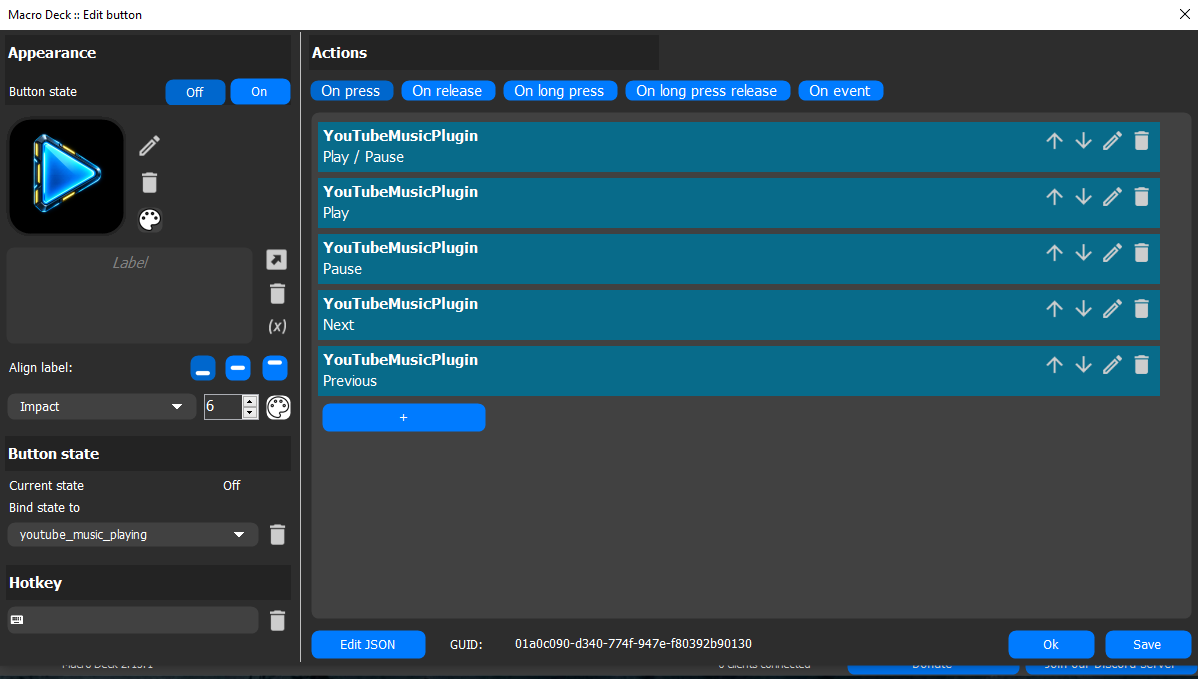
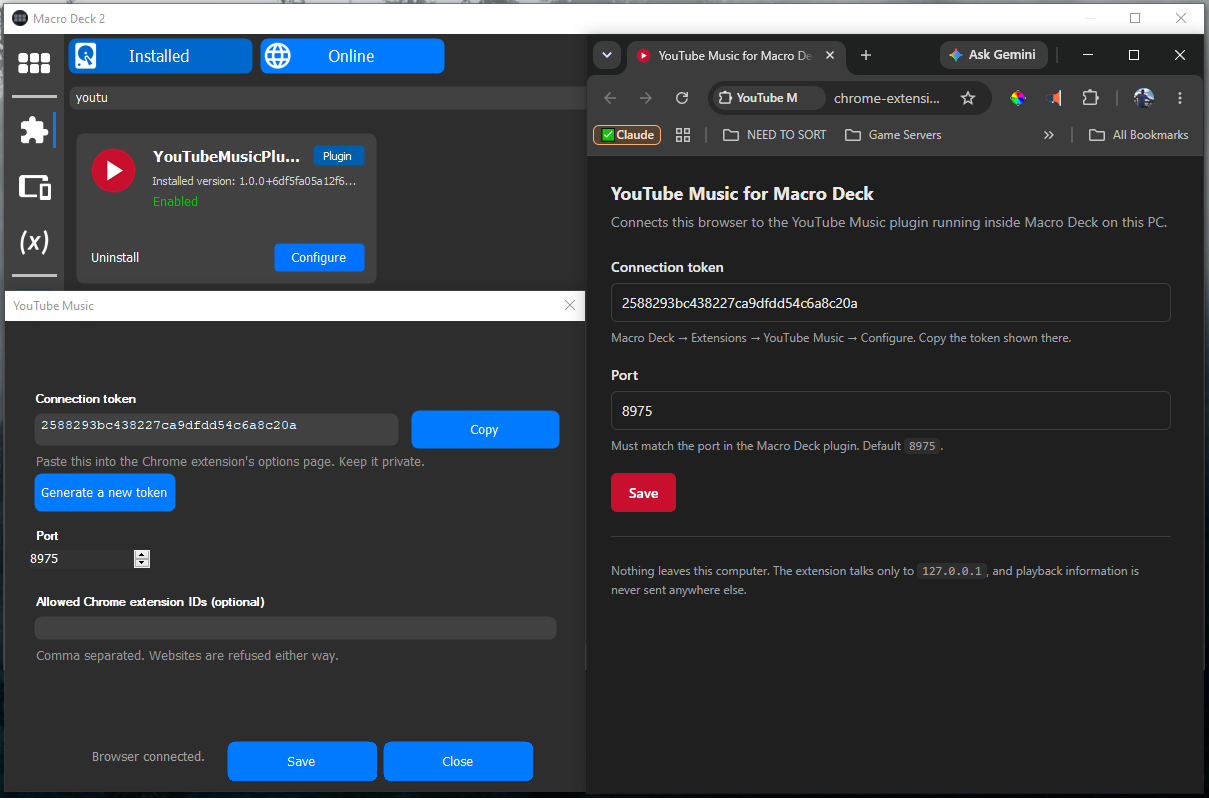
style: replace the port spinner and show placeholder text
WinForms paints a NumericUpDown's spinner buttons in the system colour
regardless of BackColor, leaving a white block in the dark dialog. The
port is now a RoundedTextBox validated on save, which reports a clear
message instead of silently clamping.

Placeholder text needed an explicit PlaceHolderColor to be visible
against the themed background.

diff --git a/plugin/src/YouTubeMusicPlugin/GUI/ConfiguratorDialog.cs b/plugin/src/YouTubeMusicPlugin/GUI/ConfiguratorDialog.cs
@@ -17,7 +17,7 @@ internal sealed class ConfiguratorDialog : DialogForm
     private readonly YouTubeMusicPlugin _plugin;
 
     private readonly RoundedTextBox _tokenBox = new();
-    private readonly NumericUpDown _portBox = new();
+    private readonly RoundedTextBox _portBox = new();
     private readonly RoundedTextBox _extensionIdBox = new();
     private readonly Label _statusLabel = new();
 
@@ -74,12 +74,14 @@ internal sealed class ConfiguratorDialog : DialogForm
 
         AddFullWidth(layout, Heading("Port"), 4);
 
-        _portBox.Minimum = 1024;
-        _portBox.Maximum = 65535;
+        // A NumericUpDown would be the obvious control, but WinForms paints its
+        // spinner buttons in the system colour whatever BackColor says, leaving
+        // a white block in a dark dialog. The value is validated in Save().
         _portBox.Width = 120;
-        _portBox.BorderStyle = BorderStyle.None;
-        _portBox.BackColor = Colors.Surface2;
-        _portBox.ForeColor = Color.White;
+        _portBox.Height = 36;
+        _portBox.MaxCharacters = 5;
+        _portBox.PlaceHolderText = PluginSettings.DefaultPort.ToString();
+        _portBox.PlaceHolderColor = PlaceholderColor;
         _portBox.Margin = new Padding(0, 4, 0, 8);
         layout.Controls.Add(_portBox, 0, 5);
 
@@ -88,6 +90,7 @@ internal sealed class ConfiguratorDialog : DialogForm
         _extensionIdBox.Dock = DockStyle.Fill;
         _extensionIdBox.Height = 36;
         _extensionIdBox.PlaceHolderText = "Leave empty to accept any extension with the right token";
+        _extensionIdBox.PlaceHolderColor = PlaceholderColor;
         AddFullWidth(layout, _extensionIdBox, 7);
 
         AddFullWidth(
@@ -146,10 +149,12 @@ internal sealed class ConfiguratorDialog : DialogForm
         Padding = new Padding(0, 4, 0, 0),
     };
 
+    private static Color PlaceholderColor => Color.FromArgb(130, 130, 130);
+
     private void LoadValues()
     {
         _tokenBox.Text = _plugin.Settings.Token;
-        _portBox.Value = _plugin.Settings.Port;
+        _portBox.Text = _plugin.Settings.Port.ToString();
         _extensionIdBox.Text = string.Join(", ", _plugin.Settings.AllowedExtensionIds);
         ShowStatus(_plugin.Server.IsClientConnected ? "Browser connected." : "Waiting for the browser.");
     }
@@ -169,7 +174,12 @@ internal sealed class ConfiguratorDialog : DialogForm
 
     private void Save()
     {
-        var port = (int)_portBox.Value;
+        if (!int.TryParse(_portBox.Text.Trim(), out var port) || port is < 1024 or > 65535)
+        {
+            ShowStatus("Port must be a number between 1024 and 65535.");
+            return;
+        }
+
         var portChanged = port != _plugin.Settings.Port;
 
         _plugin.Settings.SetPort(port);
